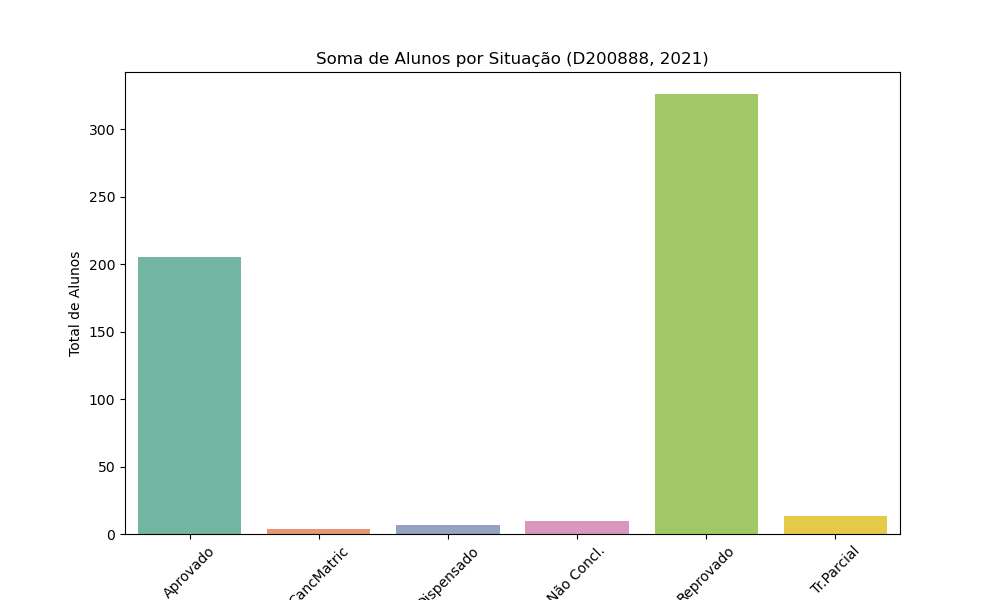
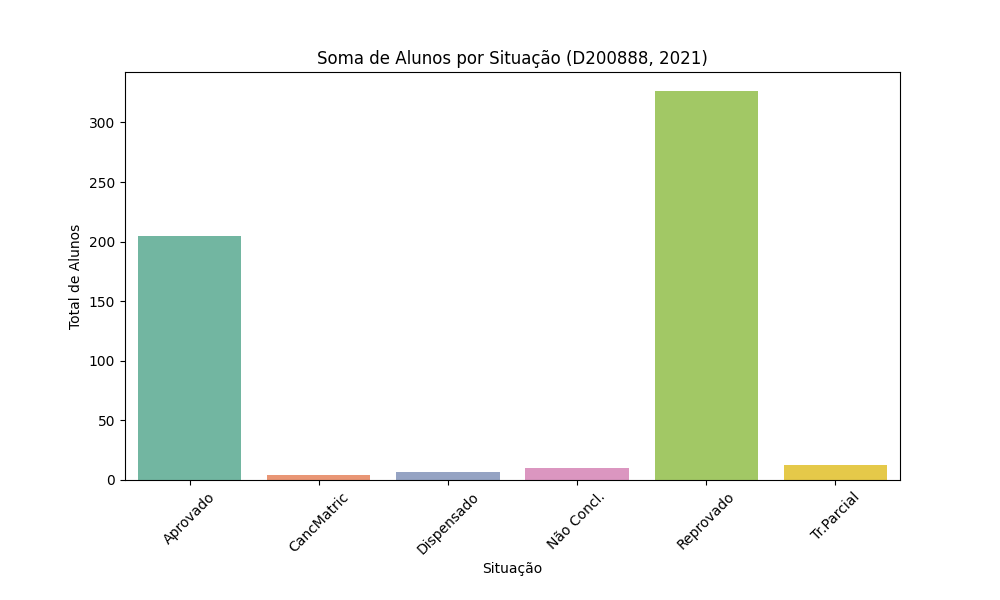
novos plots

diff --git a/plots/progressao_prof.py b/plots/progressao_prof.py
@@ -1,0 +1,103 @@
+import os
+import pandas as pd
+import matplotlib.pyplot as plt
+import seaborn as sns
+
+# Caminho da pasta contendo os arquivos .xls
+pasta = r"ds/clear"
+
+# Criar uma pasta para salvar os gráficos
+output_dir = "plots/progressao_prof"
+os.makedirs(output_dir, exist_ok=True)
+
+# Carregar o arquivo
+sit_turma = pd.read_csv(f'{pasta}/sit_turma.csv')
+print(f"Arquivo carregado com sucesso: sit_turma.csv")
+
+def novo_ano(row):
+    if row['Semestre'] == "1. Semestre":
+        return row['Ano'] + 0.0
+    elif row['Semestre'] == "2. Semestre":
+        return row['Ano'] + 0.5
+sit_turma["Outros%"] = sit_turma[["CancMatric%","Dispensado%","Não Concl.%","Repr.Freq%","Tr.Parcial%"]].sum(axis=1)
+sit_turma["Ano"] = sit_turma.apply(novo_ano, axis=1)
+
+professores = sit_turma['Professor'].unique()
+anos = sit_turma['Ano'].unique()
+sit_turma = sit_turma.groupby(['Professor', 'Ano'])[['Aprovado%', 'Reprovado%', 'Outros%']].mean().reset_index()
+for professor in professores:
+    dados_professor = sit_turma[sit_turma['Professor'] == professor]
+    
+    plt.figure(figsize=(10, 6))
+    
+    # Gráficos de linhas para cada situação
+    plt.plot(dados_professor['Ano'], dados_professor['Aprovado%'], label='Aprovados%', marker='o')
+    plt.plot(dados_professor['Ano'], dados_professor['Reprovado%'], label='Reprovados%', marker='o')
+    plt.plot(dados_professor['Ano'], dados_professor['Outros%'], label='Outros%', marker='o')
+    
+    # Personalização do gráfico
+    plt.title(f'Desempenho por Ano - Professor {professor}')
+    plt.xlabel('Ano')
+    plt.ylabel('Porcentagem (%)')
+    plt.xticks(ticks=anos, labels=anos)
+    
+    # Mostrar o gráfico
+    nome_grafico = f"{output_dir}/progr_prof_{professor}.png"
+    plt.savefig(nome_grafico)
+    plt.close()
+# centro_counts = merged_data.groupby('CENTRO').size().reset_index(name='Quantidade')
+# print(centro_counts)
+# sns.barplot(data=centro_counts, x='CENTRO', y='Quantidade')
+# nome_grafico = f"{output_dir}/qtd_por_centro.png"
+# plt.savefig(nome_grafico)
+# ct_data =  merged_data[merged_data["CENTRO"] == 'CT'] # 130
+
+# performance_data = ct_data.groupby('Curso').agg({
+#     'Aprovado%': 'mean',
+#     'Reprovado%': 'mean',
+#     'Outros%': 'mean',
+#     'FORMADOS_M%': 'mean',
+#     'FORMADOS_F%': 'mean'
+# }).reset_index().sort_values(by='Aprovado%', ascending=False)
+# plt.figure(figsize=(15, 8)).subplots_adjust(left=0.3)
+# sns.barplot(data=performance_data, x='Aprovado%', y='Curso')
+# plt.title(f"Aprovação por curso")
+# plt.xlabel('% Aprovação')
+# plt.ylabel('Curso')
+# nome_grafico = f"{output_dir}/aprovacao_curso.png"
+# plt.savefig(nome_grafico)
+# plt.close()
+
+# performance_data = merged_data.groupby('CENTRO').agg({
+#     'Aprovado%': 'mean',
+#     'Reprovado%': 'mean',
+#     'Outros%': 'mean',
+#     'FORMADOS_M%': 'mean',
+#     'FORMADOS_F%': 'mean'
+# }).reset_index().sort_values(by='Aprovado%', ascending=False)
+
+# plt.figure(figsize=(15, 8)).subplots_adjust(left=0.3)
+# sns.barplot(data=performance_data, x='Aprovado%', y='CENTRO')
+# plt.title(f"Aprovação por centro")
+# plt.xlabel('% Aprovação')
+# plt.ylabel('Centro')
+# nome_grafico = f"{output_dir}/aprovacao_centro.png"
+# plt.savefig(nome_grafico)
+# plt.close()
+
+# professor_performance = sit_turma.groupby('Professor').agg({
+#     'Aprovado%': 'mean',
+#     'Reprovado%': 'mean',
+#     'Outros%': 'mean'
+# }).reset_index().sort_values(by='Reprovado%', ascending=False)
+# print(professor_performance.sort_values(by='Reprovado%', ascending=False))
+
+# professor_performance = sit_turma.groupby('Professor')[['Aprovado%',
+#     'Reprovado%',
+#     'Outros%']].mean().sort_values(by='Aprovado%', ascending=False)
+# professor_performance.plot(kind='barh', figsize=(9, 12), color=['green', 'red', 'blue'], left=0.3)
+# plt.title(f'Taxa de aprovação, reprovação e outros por professor')
+# plt.ylabel('Professor')
+# plt.xlabel('Taxa')
+# plt.savefig(f"{output_dir}/taxa_professor.png")
+# plt.close()

diff --git a/aprovacoes_agrupadas.py b/aprovacoes_agrupadas.py
@@ -1,0 +1,102 @@
+import os
+import pandas as pd
+import matplotlib.pyplot as plt
+import seaborn as sns
+
+# Caminho da pasta contendo os arquivos .xls
+pasta = r"ds/clear"
+
+# Criar uma pasta para salvar os gráficos
+output_dir = "plots"
+os.makedirs(output_dir, exist_ok=True)
+
+# Carregar o arquivo
+sit_turma = pd.read_csv(f'{pasta}/sit_turma.csv')
+print(f"Arquivo carregado com sucesso: sit_turma.csv")
+ingr_form = pd.read_csv(f'{pasta}/ingr_form.csv')
+print(f"Arquivo carregado com sucesso: ingr_form.csv")
+
+ingr_form["COD_CURSO"] = ingr_form["COD_CURSO"].astype(str)
+sit_turma["Cód. Curso"] = sit_turma["Cód. Curso"].astype(str)
+ingr_form["ANO"] = ingr_form["ANO"].astype(str)
+sit_turma["Ano"] = sit_turma["Ano"].astype(str)
+sit_turma["Outros%"] = sit_turma[["CancMatric%","Dispensado%","Não Concl.%","Repr.Freq%","Tr.Parcial%"]].sum(axis=1)
+
+
+merged_data = pd.merge(ingr_form, sit_turma, left_on=["COD_CURSO", "ANO"], right_on=["Cód. Curso", "Ano"])
+
+centro_counts = merged_data.groupby('CENTRO').size().reset_index(name='Quantidade')
+print(centro_counts)
+sns.barplot(data=centro_counts, x='CENTRO', y='Quantidade')
+nome_grafico = f"{output_dir}/qtd_por_centro.png"
+plt.savefig(nome_grafico)
+
+performance_data = merged_data.groupby('Curso').agg({
+    'Aprovado%': 'mean',
+    'Reprovado%': 'mean',
+    'Outros%': 'mean',
+    'FORMADOS_M%': 'mean',
+    'FORMADOS_F%': 'mean'
+}).reset_index().sort_values(by='Aprovado%', ascending=False)
+plt.figure(figsize=(15, 8)).subplots_adjust(left=0.3)
+sns.barplot(data=performance_data, x='Aprovado%', y='Curso')
+plt.title(f"Aprovação por curso")
+plt.xlabel('% Aprovação')
+plt.ylabel('Curso')
+nome_grafico = f"{output_dir}/aprovacao_curso.png"
+plt.savefig(nome_grafico)
+plt.close()
+
+plt.figure(figsize=(15, 8)).subplots_adjust(left=0.3)
+sns.barplot(data=performance_data.sort_values(by='Reprovado%', ascending=False), x='Reprovado%', y='Curso')
+plt.title(f"Reprovação por curso")
+plt.xlabel('% Reprovação')
+plt.ylabel('Curso')
+nome_grafico = f"{output_dir}/reprovacao_curso.png"
+plt.savefig(nome_grafico)
+plt.close()
+
+plt.figure(figsize=(15, 8)).subplots_adjust(left=0.3)
+sns.barplot(data=performance_data.sort_values(by='Outros%', ascending=False), x='Outros%', y='Curso')
+plt.title(f"Outros por curso")
+plt.xlabel('% Outros')
+plt.ylabel('Curso')
+nome_grafico = f"{output_dir}/outros_curso.png"
+plt.savefig(nome_grafico)
+plt.close()
+
+
+performance_data = merged_data.groupby('CENTRO').agg({
+    'Aprovado%': 'mean',
+    'Reprovado%': 'mean',
+    'Outros%': 'mean',
+    'FORMADOS_M%': 'mean',
+    'FORMADOS_F%': 'mean'
+}).reset_index().sort_values(by='Aprovado%', ascending=False)
+
+plt.figure(figsize=(15, 8))
+sns.barplot(data=performance_data, x='Aprovado%', y='CENTRO')
+plt.title(f"Aprovação por centro")
+plt.xlabel('% Aprovação')
+plt.ylabel('Centro')
+nome_grafico = f"{output_dir}/aprovacao_centro.png"
+plt.savefig(nome_grafico)
+plt.close()
+
+plt.figure(figsize=(15, 8))
+sns.barplot(data=performance_data.sort_values(by='Reprovado%', ascending=False), x='Reprovado%', y='CENTRO')
+plt.title(f"Reprovação por centro")
+plt.xlabel('% Reprovação')
+plt.ylabel('Centro')
+nome_grafico = f"{output_dir}/reprovacao_centro.png"
+plt.savefig(nome_grafico)
+plt.close()
+
+plt.figure(figsize=(15, 8))
+sns.barplot(data=performance_data.sort_values(by='Outros%', ascending=False), x='Outros%', y='CENTRO')
+plt.title(f"Outros por centro")
+plt.xlabel('% Outros')
+plt.ylabel('Centro')
+nome_grafico = f"{output_dir}/outros_centro.png"
+plt.savefig(nome_grafico)
+plt.close()

diff --git a/plots/graficos2.py b/plots/graficos2.py
@@ -20,7 +20,7 @@ for disc in disciplinas:
         if sub_df.empty:
             break
         df_agrupado = sub_df.groupby('Situação')['Alunos'].sum().reset_index()
-        plt.figure(figsize=(10, 6))
+        plt.figure(figsize=(10, 6)).subplots_adjust(bottom=0.2)
         sns.barplot(data=df_agrupado, x='Situação', y='Alunos', hue='Situação', palette='Set2', dodge=False, legend=False)
         plt.title(f"Soma de Alunos por Situação ({disc}, {ano})")
         plt.xlabel('Situação')
@@ -46,7 +46,7 @@ caminho_tabela_estatistica = os.path.join(output_dir, 'estatisticas_detalhadas.c
 estatisticas.to_csv(caminho_tabela_estatistica, index=False)
 print(f"Tabela de estatísticas detalhadas salva em: {caminho_tabela_estatistica}")
 
-plt.figure(figsize=(10, 6))
+plt.figure(figsize=(10, 6)).subplots_adjust(bottom=0.2)
 sns.barplot(data=estatisticas, x='Situação', y='Total', hue='Situação', palette='muted', dodge=False, legend=False)
 plt.title("Soma Geral de Alunos por Situação")
 plt.xlabel('Situação')
